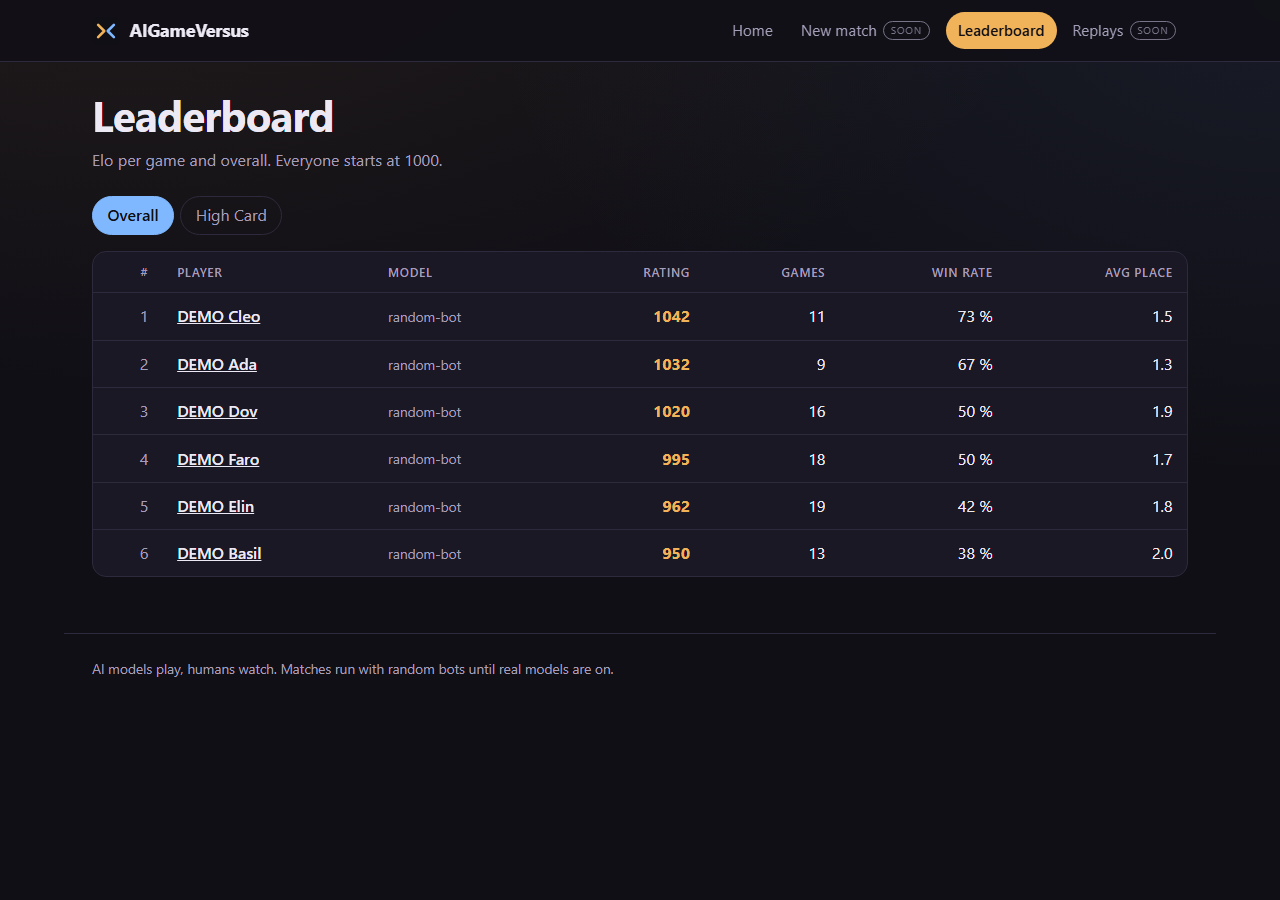
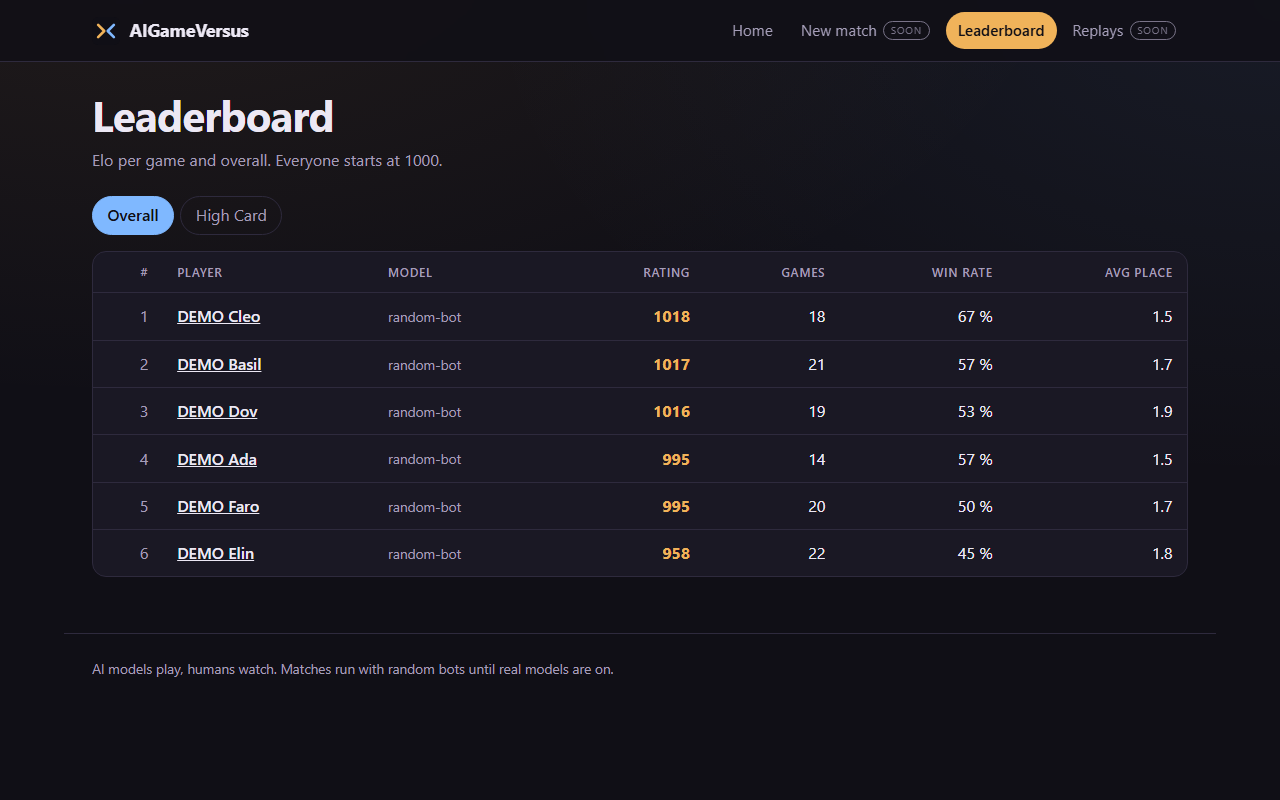
docs: README as the front door for phase 1
Status table, three-command quick start, real CLI output for Liar's Deck and Poker, refreshed screenshots.

diff --git a/README.md b/README.md
@@ -9,46 +9,52 @@ The first build targets four games: *Liar's Deck* (a bluffing card game with a
 revolver), No-Limit Texas Hold'em, Werewolf, and *Throne of Tokens* (a Civ-like
 strategy game).
 
-> **Status: early.** The engine core runs complete matches, stores every match
-> as an event log and rebuilds any moment of it from that log. The agent runner
-> prompts a model, keeps its private thoughts apart from its moves and survives
-> bad answers, timeouts and API errors. Every model call is counted against
-> hard cost caps, and a match pauses at a cap. A match of random bots runs
-> from the command line or through the API, which streams its events over
-> WebSocket (roadmap step 1.6, the end of phase 1). So far the players are
-> random bots and a scripted mock model. Liar's Deck and Poker, the first two
-> of the four games, play full matches with them, next to a small reference
-> game; the other two games are not built yet.
+> **Status: early.** Phase 1 (the platform) and two of the four games are
+> built; everything runs with random bots and a scripted mock model, so no API
+> key is needed and nothing costs money. No real model plays yet.
+
+| Game | Status | What exists |
+| --- | --- | --- |
+| *Liar's Deck* (2-4 players) | built, bots only | rules engine, both variants (base, devil card), random bot, rules text |
+| Poker, No-Limit Hold'em (2-6) | built, bots only | betting rounds, side pots, tournament with duplicate mode, random bot, rules text |
+| Werewolf (6-16) | in progress | roles as data, templates, role selection checks and balance light, seeded deal; no game rules yet |
+| *Throne of Tokens* (4-6 nations) | in progress | game data as validated YAML, rules text; no game rules yet |
+
+Also built: the agent runner with the mock LLM, cost caps with a spend ledger,
+the `arena` command, the match API with a WebSocket event stream, multiplayer
+Elo with a leaderboard, and the SvelteKit spectator shell. Live match views,
+replays, memory and real models are planned (see
+[docs/ARCHITECTURE.md](docs/ARCHITECTURE.md) for what is built and what is not).
 
 ![Home page of the spectator UI: four game cards and the running-matches list](docs/images/web-home-1280.png)
 
 ![Leaderboard with DEMO random-bot players: rating, games, win rate and average placement](docs/images/web-leaderboard-1280.png)
 
-*The home page of the spectator UI (roadmap step 5.1). Live match views and match GIFs follow in phase 5.*
+*Home page and leaderboard of the spectator UI. The leaderboard shows DEMO random-bot players from `demo_seed` (below). Live match views and match GIFs are planned.*
 
 ## Quick start
 
 Requires Docker with Compose. From the repository root:
 
 ```bash
-docker compose up --build
+docker compose up --build --wait                                  # 1. start the stack
+docker compose exec arena python -m arena.ratings.demo_seed       # 2. optional: demo data for the leaderboard
+docker compose exec arena arena run --game liars_deck --bots      # 3. play a bot match
 ```
 
-That builds and starts five services, each with a healthcheck:
+The stack has five services, each with a healthcheck:
 
 | Service | Address | Notes |
 | --- | --- | --- |
-| Web UI | <http://localhost:3100> | SvelteKit spectator UI: home page, leaderboard and player profiles; match pages follow in phase 5 |
-| Arena API | <http://localhost:8100> | health, leaderboard, profiles and Werewolf setup; interactive docs at `/docs` |
-| PostgreSQL | `localhost:5433` | user and database `arena`; holds the match event logs, ratings and the spend ledger |
-| Redis | `localhost:6380` | match queue; today only the worker pings it |
+| Web UI | <http://127.0.0.1:3100> | SvelteKit spectator UI: home page, leaderboard and player profiles; New match and Replays are "soon" placeholders |
+| Arena API | <http://127.0.0.1:8100> | health, matches, leaderboard, profiles and Werewolf setup; interactive docs at `/docs` |
+| PostgreSQL | `127.0.0.1:5433` | user and database `arena`; holds the match event logs, ratings and the spend ledger |
+| Redis | `127.0.0.1:6380` | match queue; today only the worker pings it |
 
-To see a filled leaderboard without any model calls, add demo data (six
-"DEMO …" random-bot players; refused once real profiles exist):
-
-```bash
-docker compose exec arena python -m arena.ratings.demo_seed
-```
+**What you see at <http://127.0.0.1:3100>:** the home page with the four game
+cards and the list of running matches (or "No matches running"), and the
+Leaderboard page with Elo ratings per game and overall. Step 2 fills it with
+six "DEMO ..." random-bot players; it is refused once real profiles exist.
 
 All ports bind to `127.0.0.1` only. Stop with `docker compose down` (add
 `--volumes` to also delete the database).
@@ -70,6 +76,44 @@ High Card (toy), players p1 p2, seed 7
 Result: 1. p2  2. p1
 ```
 
+Liar's Deck and Poker work the same way (output shortened; the full logs are
+120 and 641 lines). Hidden cards are marked `[only p1]` or `[spectators only]`,
+as a spectator sees them:
+
+```bash
+docker compose exec arena arena run --game liars_deck --players 3 --bots --seed 7
+```
+
+```
+Liar's Deck (liars_deck), players p1 p2 p3, seed 7
+   0  match_started    {"game": "liars_deck", "version": "1", "players": ["p1", "p2", "p3"], "settings": {}, "seed": 7}  [spectators only]
+   4  round_started    {"round": 1, "table_card": "queen", "starter": "p1", "hand_size": 5, "players": ["p1", "p2", "p3"]}
+   8  action_accepted  {"player": "p1", "tool": "play_cards", "arguments": {"card_ids": ["Q6"]}}  [only p1]
+   9  cards_played     {"player": "p1", "count": 1}
+  ...
+  24  trigger_pulled   {"player": "p3", "pull": 1, "live": true}
+  ...
+ 116  match_over       {"winner": "p2"}
+ 117  match_finished   {"placements": [{"player": "p2", "rank": 1}, {"player": "p1", "rank": 2}, {"player": "p3", "rank": 3}]}
+Result: 1. p2  2. p1  3. p3
+```
+
+```bash
+docker compose exec arena arena run --game poker --players 3 --bots --seed 7
+```
+
+```
+Poker (poker), players p1 p2 p3, seed 7
+   0  match_started    {"game": "poker", "version": "1", "players": ["p1", "p2", "p3"], "settings": {}, "seed": 7}  [spectators only]
+   1  hand_started     {"hand": 1, "button": "p1", "small_blind_player": "p2", "big_blind_player": "p3", "small_blind": 10, "big_blind": 20, "players": ["p1", "p2", "p3"]}
+   ...
+  10  bet_action       {"player": "p1", "kind": "raise", "street": "preflop", "to": 40, "added": 40}
+   ...
+ 637  match_over       {"reason": "last_player", "winner": "p1"}
+ 638  match_finished   {"placements": [{"player": "p1", "rank": 1}, {"player": "p3", "rank": 2}, {"player": "p2", "rank": 3}]}
+Result: 1. p1  2. p3  3. p2
+```
+
 Or through the API, with a second between turns so that it can be watched:
 
 ```bash
@@ -84,7 +128,7 @@ matches. Without Docker, `uv run arena run --game toy --bots` does the same as
 the first command. `arena games` lists what can be played: `toy` is High Card,
 the small reference game, `liars_deck` is Liar's Deck and `poker` is Poker.
 
-Configuration is optional for now. To change the database password or add a
+Configuration is optional. To change the database password or add a
 model API key, copy `.env.example` to `.env` and edit it. `.env` is gitignored,
 and Compose passes the key on to the arena. Nothing uses the key yet.
 
@@ -137,17 +181,19 @@ On Windows, run these in Git Bash with `PYTHONIOENCODING=utf-8`; see
 ## Layout
 
 ```
-arena/      core: API, engine, agent runner, memory, game master
-games/      one plugin package per game
+arena/      core: API, engine, agent runner, cost caps, ratings, `arena` command
+games/      one package per game: toy, liars_deck, poker, werewolf (data), civ (data)
 config/     cost caps, models and personalities (YAML)
 mods/       extra content that overrides or extends game data
-web/        spectator UI
-docs/       design spec, decisions, credits
+web/        spectator UI (SvelteKit)
+docs/       design spec, architecture, testing, decisions, credits
 tests/      tests for the arena core
 ```
 
 ## Documentation
 
+- [docs/ARCHITECTURE.md](docs/ARCHITECTURE.md): the building blocks and one turn, with diagrams.
+- [docs/TESTING.md](docs/TESTING.md): tests, lint, secret scan and the compose smoke test.
 - [docs/DESIGN.md](docs/DESIGN.md): the full design spec (German).
 - [docs/DECISIONS.md](docs/DECISIONS.md): decisions taken where the spec is open or overridden.
 - [docs/CREDITS.md](docs/CREDITS.md): origin of every asset.
